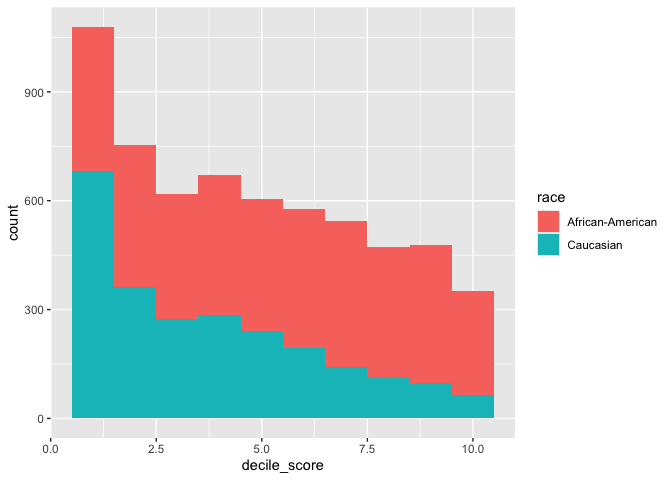
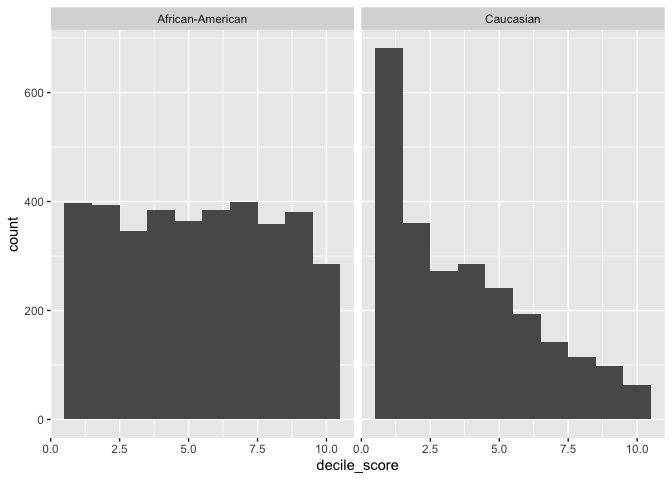
Fix Ex 8: the incomparable histogram.

diff --git a/lab-09.md b/lab-09.md
@@ -234,8 +234,9 @@ lower or higher decile scores.
 compas_r <- compas %>% 
   filter(race %in% c("African-American", "Caucasian"))
 
-ggplot(compas_r, aes(x = decile_score, fill = race)) +
-  geom_histogram(binwidth = 1)
+ggplot(compas_r, aes(x = decile_score)) +
+  geom_histogram(binwidth = 1) +
+  facet_wrap(~ race)
 ```
 
 ![](lab-09_files/figure-gfm/unnamed-chunk-10-1.png)<!-- -->
